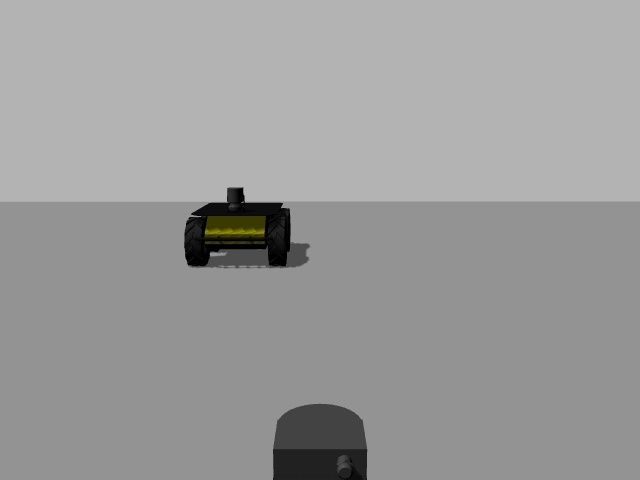
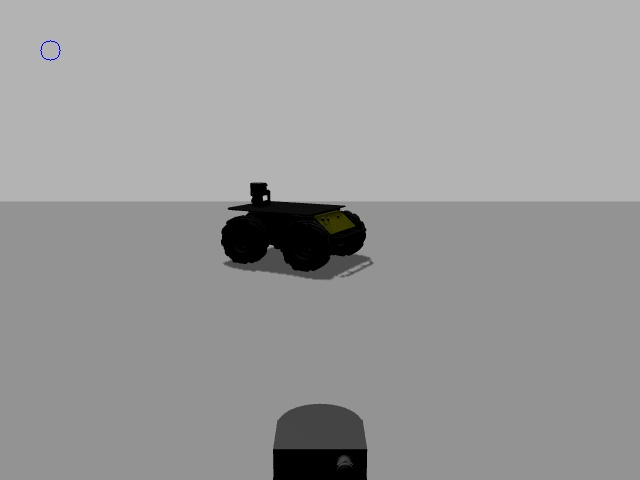
40 img for train, 40 for test, arguments added

Changed region(s): [[0.2812, 0.375, 0.5938, 0.5938], [0.4062, 0.9375, 0.5938, 1.0], [0.0625, 0.0625, 0.0938, 0.125]]

diff --git a/scripts/listener_take_pic.py b/scripts/listener_take_pic.py
@@ -1,40 +1,91 @@
 #!/usr/bin/env python
 # -*- coding: utf-8 -*-
-#Listener from husky's camera.
+#Converting ROS images and saving image
+#https://wiki.ros.org/cv_bridge/Tutorials/ConvertingBetweenROSImagesAndOpenCVImagesPython
+#rosrun multi_camera_husky listener_take_pic.py <Husky to subscribe> <camera true/false> <train true/false>
+
+
+from __future__ import print_function
 
 import sys
 import rospy
-from sensor_msgs.msg import  CameraInfo, Image
-from cv_bridge import CvBridge, CvBridgeError
 import cv2
-from matplotlib import pyplot as plt
+from std_msgs.msg import String
+from sensor_msgs.msg import Image
+from cv_bridge import CvBridge, CvBridgeError
+
+
+####-------Variables
+#Variable i... modify
+
+
+#Husky Number to subscribe
+Hn=sys.argv[1]
+text='\n\nConfiguration: \n \tHusky' + str(Hn)
+
+#Camera
+if sys.argv[2]== 'true' or sys.argv[2]=='True':
+    cam= 1    
+    text+='\n \tCamera ADDED'
+elif sys.argv[2]== 'False' or sys.argv[2]=='false':
+    cam= 0 
+    text+='\n \tCamera OFF'
+         
+
+#Train/test
+if sys.argv[3]== 'True' or sys.argv[3]=='true': 
+    train= True    
+    text+='\n \tfor TRAINING'
+elif sys.argv[3]== 'False' or sys.argv[3]=='false':
+    train= False
+    text+='\n \tfor TESTING'
+
+print(text)
+
+
+
 
 # Instantiate CvBridge
 bridge = CvBridge()
-#Variables
-#Camera= 0, no camera
-camera=1
-#Husky to subscribe to 
-Hn=0 
 
+    
 
-def callback(msg):
-    try:
-        #Convert to openCV2
-        cv2_img=bridge.imgmsg_to_cv2(msg,"bgr8")
-    except CvBridgeError as e:
-        print(e)
-    else:
-        cv2.imshow('iamge',cv2_img)
-        
+class image_converter:
 
-
-def main(): 
-    rospy.init_node('camera_listener', anonymous=True)
+  def __init__(self,Hn):
+    self.i=1
     image_topic = "/husky" + str(Hn) + "/camera/rgb/"
-    sub_cam_info = rospy.Subscriber(image_topic +"image_raw", Image, callback)
+    self.bridge = CvBridge()
+    self.image_sub = rospy.Subscriber(image_topic +"image_raw",Image,self.callback)
 
+  def callback(self,data):
+    try:
+      cv_image = self.bridge.imgmsg_to_cv2(data, "bgr8")
+    except CvBridgeError as e:
+      print(e)
+
+    (rows,cols,channels) = cv_image.shape
+    if cols > 60 and rows > 60 :
+      cv2.circle(cv_image, (50,50), 10, 255)
+
+    cv2.imshow("Image window", cv_image)
+    k=cv2.waitKey(3)
+    if k== 32:
+        if train == True:
+            path='../husky_images/train/' + str(cam) + '_' + str(self.i) + '.jpg'
+        else:
+            path='../husky_images/test/' + str(cam) + '_' + str(self.i) + '.jpg' 
+        cv2.imwrite(path,cv_image)
+        self.i+=1
+
+def main(args):
+  ic = image_converter(Hn)
+  rospy.init_node('image_converter', anonymous=True)
+  try:
     rospy.spin()
+  except KeyboardInterrupt:
+    print("Shutting down")
+  cv2.destroyAllWindows()
 
 if __name__ == '__main__':
-    main()
+    main(sys.argv)

diff --git a/scripts/training.py b/scripts/training.py
@@ -19,8 +19,10 @@ if train== True:
 else:
     path='../husky_images/test/' 
 
+
+
 for i in range(2):
-    for j in range(1,7):
+    for j in range(1,21):
         print('Read image', i ,'_', j)
         path += str(i) + '_' + str(j) + '.jpg'
         img=cv2.imread(path)
